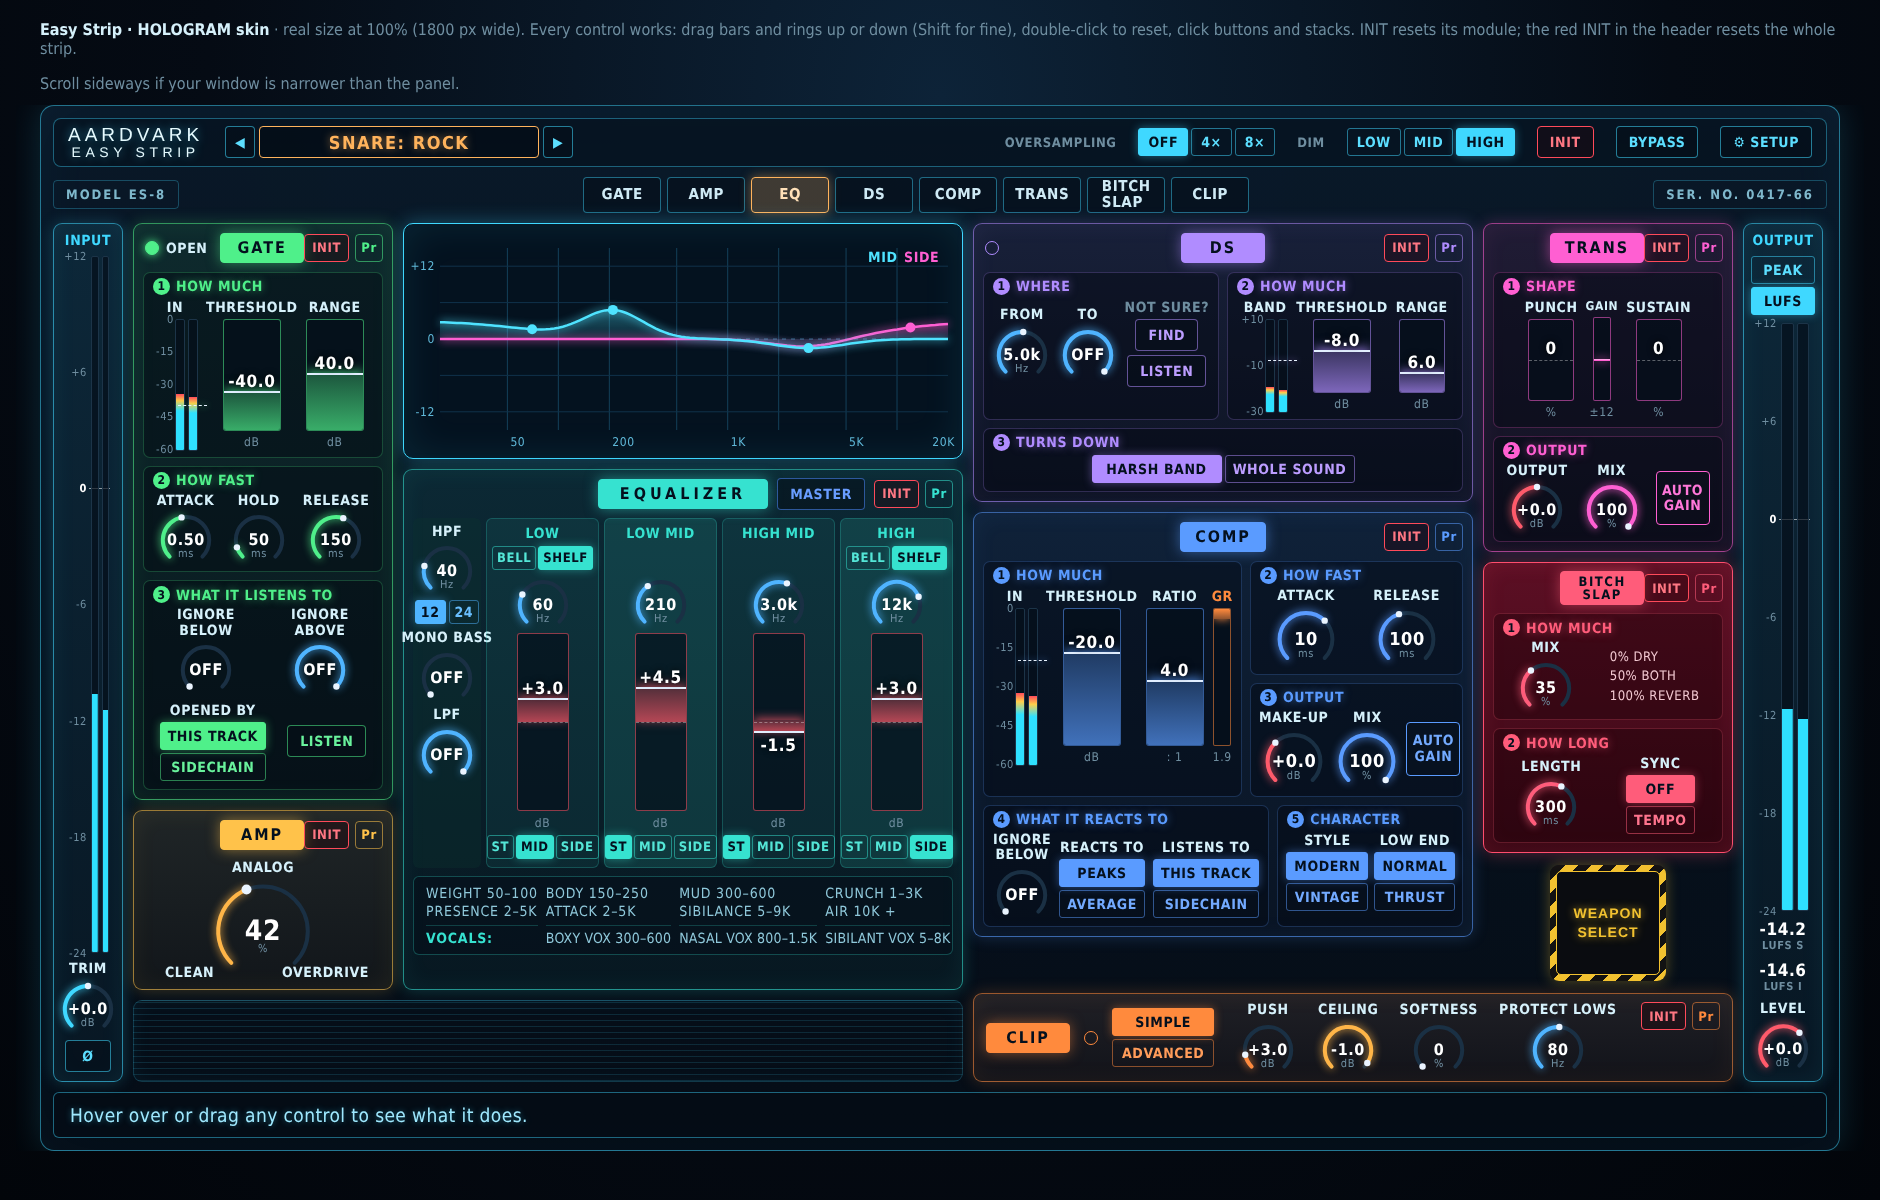
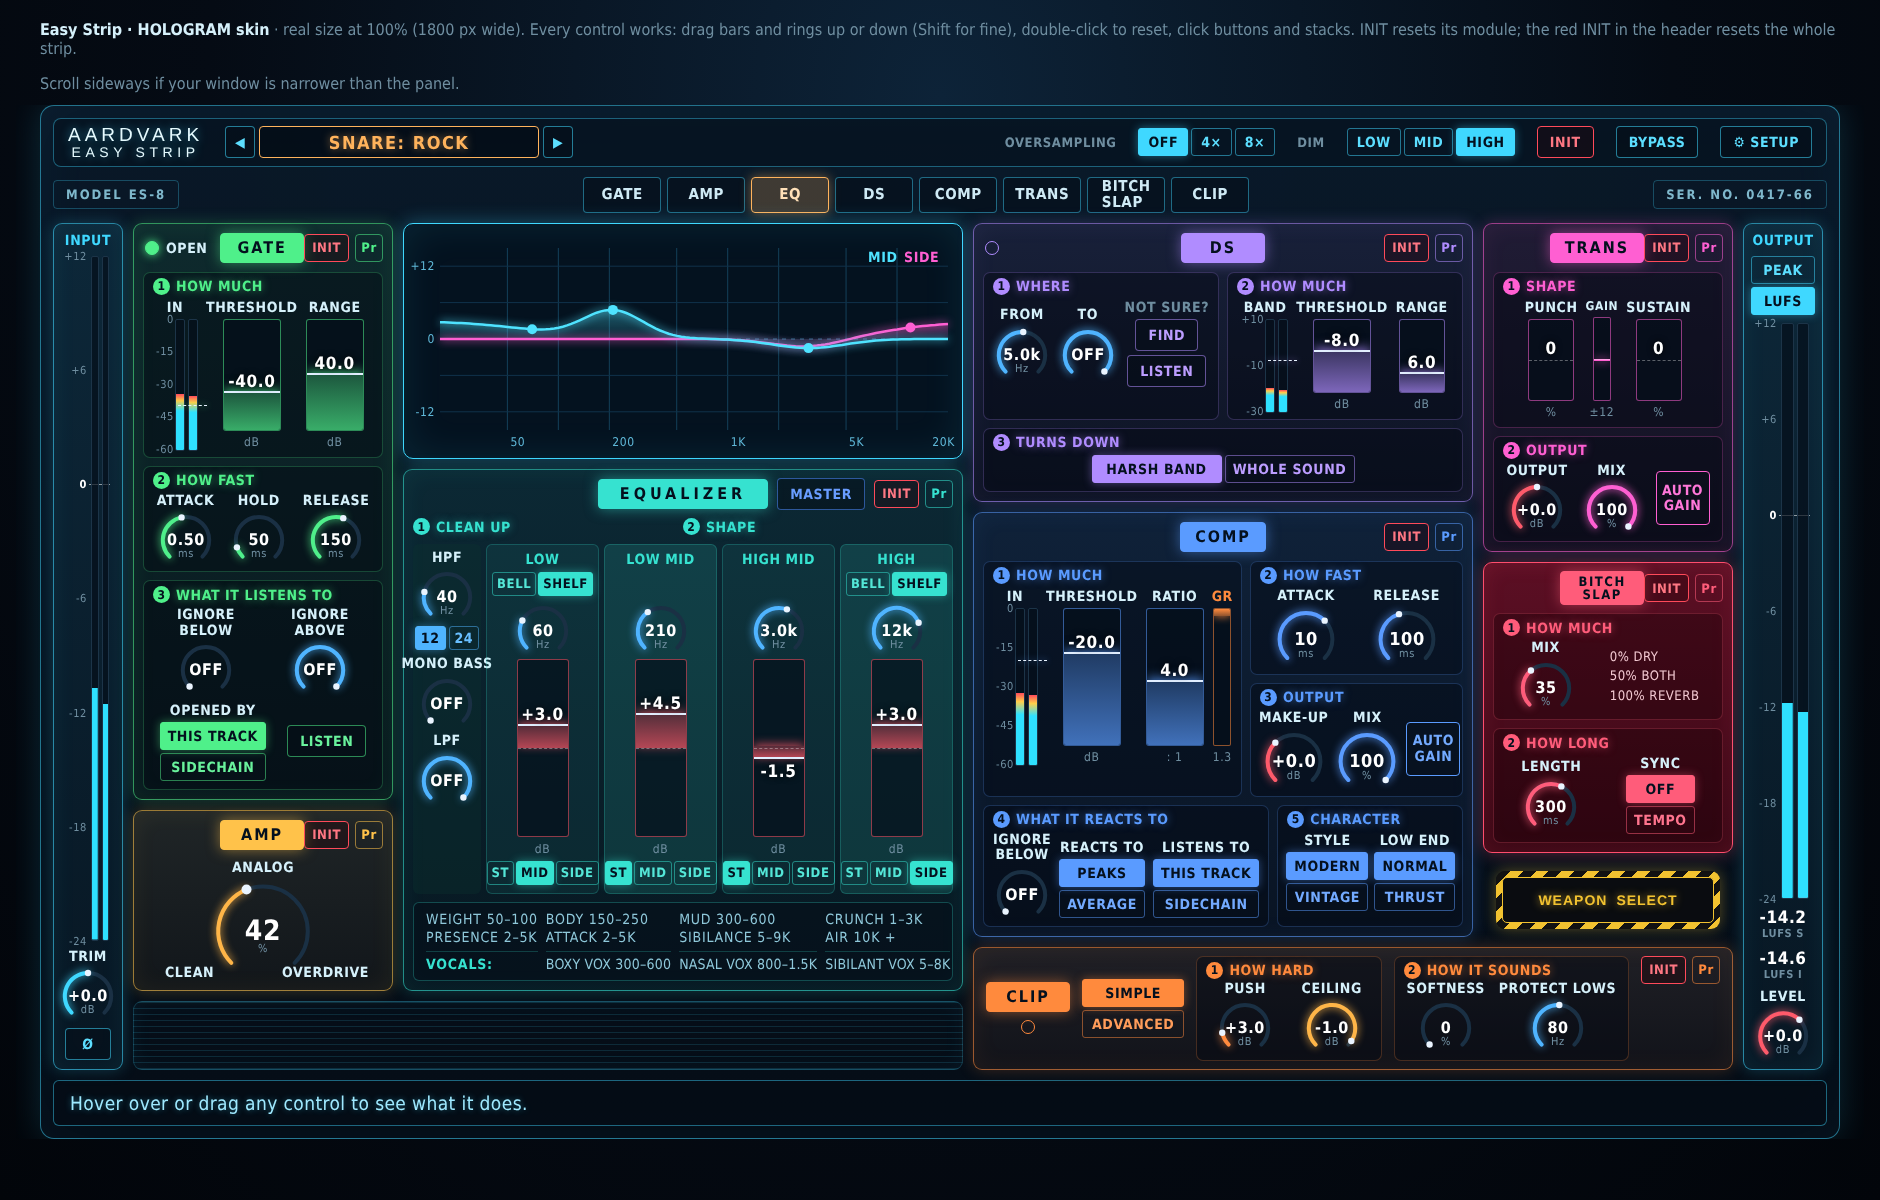
DevTools: numbered sections for EQ and Clip, wide WEAPON SELECT (HOLOGRAM) [skip ci]
Claude-Session: https://claude.ai/code/session_01KRn7UbAFWVf9LHLqhN9U6j

Changed region(s): [[0.216, 0.4317, 0.9872, 0.925], [0.0309, 0.7708, 0.4936, 0.9558], [0.4011, 0.5858, 0.4319, 0.6475]]

diff --git a/DevTools/Look/Strip/strip_wireframe_hologram_digital.html b/DevTools/Look/Strip/strip_wireframe_hologram_digital.html
@@ -132,10 +132,15 @@ body{margin:0;background:radial-gradient(ellipse at 50% 8%,#0d2338 0%,#050b14 55
 .ref{border:1px solid color-mix(in srgb,var(--t) 28%,transparent);border-radius:6px;padding:8px 12px;display:grid;grid-template-columns:repeat(4,1fr);gap:2px 8px;color:#8fc8da;font-size:14px;font-weight:500;letter-spacing:.8px;background:rgba(4,12,22,.45)}
 /* bottom fillers */
 .scan{border-radius:9px;border:1px solid rgba(63,216,255,.22);background:repeating-linear-gradient(0deg,rgba(63,216,255,.14) 0 1px,transparent 1px 6px);box-shadow:inset 0 0 20px rgba(63,216,255,.06)}
-.wcell{flex:1;display:flex;align-items:center;justify-content:center;min-height:120px}
+.wcell{display:flex;align-items:center;justify-content:center;flex:1}
 .wframe{padding:6px;border-radius:9px;background:repeating-linear-gradient(-45deg,var(--haz) 0 9px,#121212 9px 18px);box-shadow:0 0 14px rgba(242,194,48,.35)}
-.wbtn{width:104px;height:104px;box-sizing:border-box;border-radius:5px;background:#0a0c10;border:1px solid var(--haz);color:var(--haz);font-family:var(--disp);font-weight:700;font-size:14px;letter-spacing:1px;line-height:1.35;display:flex;flex-direction:column;align-items:center;justify-content:center;text-shadow:0 0 8px rgba(242,194,48,.7);cursor:pointer}
-.clip{flex-direction:row;align-items:center;gap:14px;padding:8px 12px}
+.wbtn{width:212px;height:46px;flex-direction:row!important;gap:9px;box-sizing:border-box;border-radius:5px;background:#0a0c10;border:1px solid var(--haz);color:var(--haz);font-family:var(--disp);font-weight:700;font-size:14px;letter-spacing:1px;line-height:1.35;display:flex;flex-direction:column;align-items:center;justify-content:center;text-shadow:0 0 8px rgba(242,194,48,.7);cursor:pointer}
+.clip{flex-direction:row;align-items:stretch;gap:12px;padding:8px 12px}
+.clip .side{display:flex;flex-direction:column;align-items:center;justify-content:center;gap:8px}
+.clip .sec{flex:1;padding-top:24px}
+.eqh{display:grid;grid-template-columns:68px repeat(4,minmax(0,1fr));gap:5px;height:18px}
+.eqh .sh{position:static;white-space:nowrap}
+.sh i{flex:none}
 .ticker{height:46px;box-sizing:border-box;border:1px solid rgba(63,216,255,.45);border-radius:6px;background:rgba(4,12,22,.75);color:#9fe9ff;display:flex;align-items:center;padding:0 16px;font-size:19px;letter-spacing:.4px;text-transform:none;text-shadow:0 0 6px rgba(63,216,255,.45);white-space:nowrap;overflow:hidden}
 :focus-visible{outline:2px solid var(--sel);outline-offset:2px}
 @media (prefers-reduced-motion:reduce){*{transition:none!important}}
@@ -219,6 +224,7 @@ body{margin:0;background:radial-gradient(ellipse at 50% 8%,#0d2338 0%,#050b14 55
         <div style="display:flex;align-items:center;gap:0"><div class="onoff" style="min-width:170px;letter-spacing:4px">EQUALIZER</div></div>
         <div style="display:grid;grid-template-columns:1fr auto;align-items:center"><div class="btn tg" style="justify-self:center;--t:#4f8cff" data-tip="Master: linear phase, keeps the timing of every sound intact. Best on a drum bus or finished mix; adds a short delay and uses more power.">MASTER</div><div class="tools"><div class="init">INIT</div><div class="pr">Pr</div></div></div>
       </div>
+      <div class="eqh"><div class="sh"><i>1</i>CLEAN UP</div><div class="sh" style="grid-column:2/6;justify-self:center"><i>2</i>SHAPE</div></div>
       <div class="eqg">
         <div class="eqf">
           <div class="ring sm blue" data-l="HPF" data-min="20" data-max="500" data-def="40" data-log data-off data-f="hz" data-u="Hz" data-tip="High-pass: removes rumble below this frequency."></div>
@@ -334,14 +340,14 @@ body{margin:0;background:radial-gradient(ellipse at 50% 8%,#0d2338 0%,#050b14 55
       </div>
     </div>
     <div class="mod m-clip clip">
-      <div class="onoff">CLIP</div><span class="lamp" id="kLamp"></span>
-      <div class="stk tgl"><span class="on">SIMPLE</span><span>ADVANCED</span></div>
-      <div class="grow" style="display:flex;justify-content:space-around;align-items:flex-end">
+      <div class="side"><div class="onoff">CLIP</div><span class="lamp" id="kLamp" title="Clipping"></span></div>
+      <div class="side"><div class="stk tgl"><span class="on">SIMPLE</span><span>ADVANCED</span></div></div>
+      <div class="sec"><div class="sh"><i>1</i>HOW HARD</div><div class="r">
         <div class="ring sm" data-l="PUSH" data-min="0" data-max="24" data-def="3" data-f="db" data-u="dB" data-tip="Push: drives the sound into the clipper for loudness and punch."></div>
-        <div class="ring sm gold" data-l="CEILING" data-min="-24" data-max="0" data-def="-1" data-f="db1" data-u="dB" data-tip="Ceiling: the brick wall. Nothing gets louder than this."></div>
+        <div class="ring sm gold" data-l="CEILING" data-min="-24" data-max="0" data-def="-1" data-f="db1" data-u="dB" data-tip="Ceiling: the brick wall. Nothing gets louder than this."></div></div></div>
+      <div class="sec" style="flex:1.3"><div class="sh"><i>2</i>HOW IT SOUNDS</div><div class="r">
         <div class="ring sm" data-l="SOFTNESS" data-min="0" data-max="100" data-def="0" data-f="pct" data-u="%" data-tip="Softness: 0 is a true brick wall; turn it up for a rounder, gentler clip."></div>
-        <div class="ring sm blue" data-l="PROTECT LOWS" data-min="20" data-max="300" data-def="80" data-log data-off data-f="hz" data-u="Hz" data-tip="Protect lows: below this frequency the low end isn't clipped, so kick and bass stay clean."></div>
-      </div>
+        <div class="ring sm blue" data-l="PROTECT LOWS" data-min="20" data-max="300" data-def="80" data-log data-off data-f="hz" data-u="Hz" data-tip="Protect lows: below this frequency the low end isn't clipped, so kick and bass stay clean."></div></div></div>
       <div class="tools" style="align-self:flex-start"><div class="init">INIT</div><div class="pr">Pr</div></div>
     </div>
   </div>
